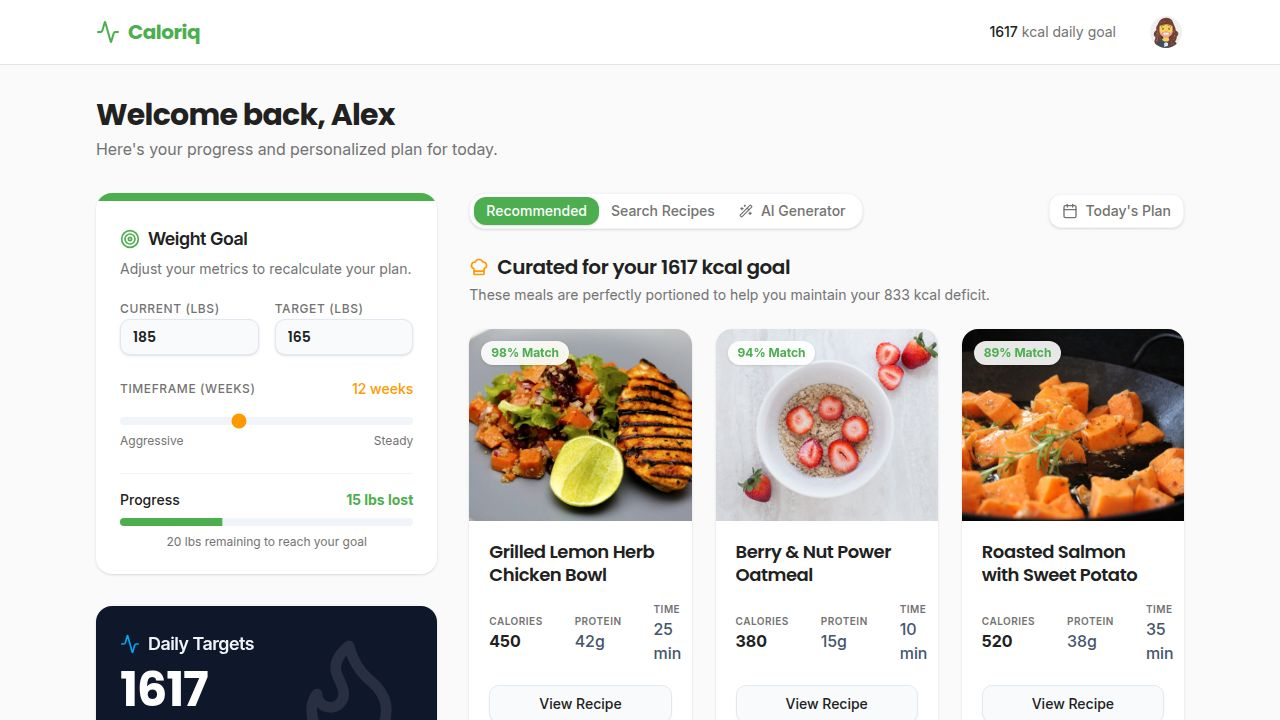
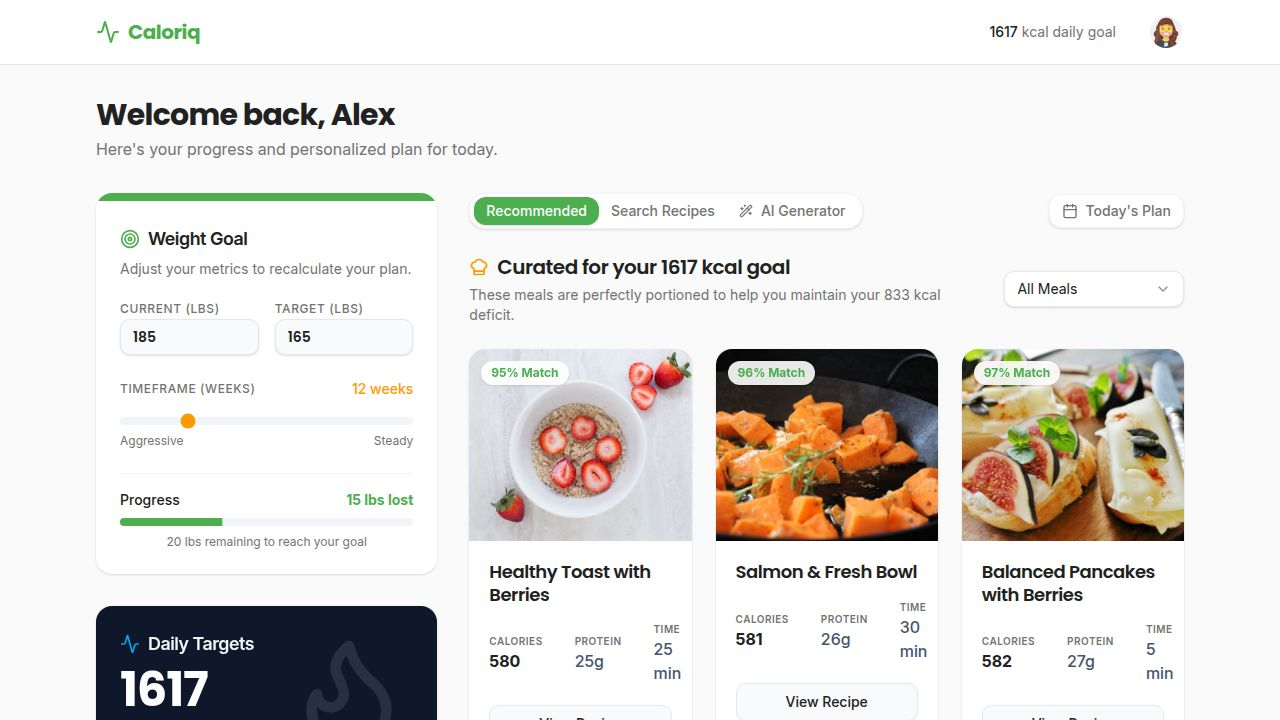
Provide 3 unique recipes daily for each meal category and cuisine type
Refactor the recipe generation logic to provide 3 unique recipes per category (Breakfast, Lunch, Dinner, Snack) for each cuisine type daily, utilizing a hashing mechanism to ensure daily changes and distinct recipe sets per cuisine.

Replit-Commit-Author: Agent
Replit-Commit-Session-Id: 3aa1bdb0-ad47-48c2-9052-1c8fe57e0854
Replit-Commit-Checkpoint-Type: full_checkpoint
Replit-Commit-Event-Id: e40263c6-9de4-46eb-bf71-cb61f2a046f9
Replit-Commit-Screenshot-Url: https://storage.googleapis.com/screenshot-production-us-central1/b5252e75-7d72-4a27-a063-837869a7ea78/3aa1bdb0-ad47-48c2-9052-1c8fe57e0854/ynjHtcF
Replit-Helium-Checkpoint-Created: true

diff --git a/client/src/pages/home.tsx b/client/src/pages/home.tsx
@@ -49,206 +49,112 @@ export default function Home() {
   
   const progressPercentage = 35; // mock progress
 
-  // Add cuisine property to recipes for filtering
-  const allRecipes = [
-    // Breakfast
-    {
-      id: 2,
-      title: "Berry & Nut Power Oatmeal",
-      type: "breakfast",
-      cuisine: "american",
-      calories: 380,
-      protein: "15g",
-      carbs: "52g",
-      fat: "12g",
-      time: "10 min",
-      image: recipe2,
-      match: "94% Match"
-    },
-    {
-      id: 6,
-      title: "Avocado Toast with Poached Egg",
-      type: "breakfast",
-      cuisine: "american",
-      calories: 420,
-      protein: "18g",
-      carbs: "35g",
-      fat: "22g",
-      time: "12 min",
-      image: recipe6,
-      match: "96% Match"
-    },
-    {
-      id: 7,
-      title: "Greek Yogurt Parfait",
-      type: "breakfast",
-      cuisine: "mediterranean",
-      calories: 310,
-      protein: "22g",
-      carbs: "38g",
-      fat: "8g",
-      time: "5 min",
-      image: recipe7,
-      match: "98% Match"
-    },
-    // Lunch
-    {
-      id: 1,
-      title: "Grilled Lemon Herb Chicken Bowl",
-      type: "lunch",
-      cuisine: "mediterranean",
-      calories: 450,
-      protein: "42g",
-      carbs: "35g",
-      fat: "14g",
-      time: "25 min",
-      image: recipe1,
-      match: "98% Match"
-    },
-    {
-      id: 8,
-      title: "Mediterranean Quinoa Salad",
-      type: "lunch",
-      cuisine: "mediterranean",
-      calories: 410,
-      protein: "16g",
-      carbs: "48g",
-      fat: "18g",
-      time: "15 min",
-      image: recipe8,
-      match: "95% Match"
-    },
-    {
-      id: 9,
-      title: "Turkey & Spinach Wrap",
-      type: "lunch",
-      cuisine: "american",
-      calories: 390,
-      protein: "32g",
-      carbs: "36g",
-      fat: "14g",
-      time: "10 min",
-      image: recipe9,
-      match: "92% Match"
-    },
-    // Dinner
-    {
-      id: 3,
-      title: "Roasted Salmon with Sweet Potato",
-      type: "dinner",
-      cuisine: "american",
-      calories: 520,
-      protein: "38g",
-      carbs: "40g",
-      fat: "22g",
-      time: "35 min",
-      image: recipe3,
-      match: "89% Match"
-    },
-    {
-      id: 5,
-      title: "Lean Steak and Asparagus",
-      type: "dinner",
-      cuisine: "american",
-      calories: 490,
-      protein: "45g",
-      carbs: "12g",
-      fat: "28g",
-      time: "20 min",
-      image: recipe5,
-      match: "92% Match"
-    },
-    {
-      id: 10,
-      title: "Baked Cod with Quinoa",
-      type: "dinner",
-      cuisine: "mediterranean",
-      calories: 440,
-      protein: "36g",
-      carbs: "42g",
-      fat: "12g",
-      time: "25 min",
-      image: recipe10,
-      match: "97% Match"
-    },
-    // Snacks
-    {
-      id: 4,
-      title: "Hummus and Carrot Sticks",
-      type: "snack",
-      cuisine: "mediterranean",
-      calories: 210,
-      protein: "8g",
-      carbs: "22g",
-      fat: "10g",
-      time: "5 min",
-      image: recipe4,
-      match: "99% Match"
-    },
-    {
-      id: 11,
-      title: "Apple Slices with Peanut Butter",
-      type: "snack",
-      cuisine: "american",
-      calories: 240,
-      protein: "7g",
-      carbs: "28g",
-      fat: "14g",
-      time: "5 min",
-      image: recipe11,
-      match: "94% Match"
-    },
-    {
-      id: 12,
-      title: "Mixed Nuts Bowl",
-      type: "snack",
-      cuisine: "vegetarian",
-      calories: 280,
-      protein: "9g",
-      carbs: "12g",
-      fat: "24g",
-      time: "2 min",
-      image: recipe12,
-      match: "91% Match"
-    }
-  ];
+  const getDailyRecipes = () => {
+    const dayOfWeek = new Date().getDay(); // 0 to 6
+    const cuisines = ["all", "vegetarian", "italian", "mediterranean", "asian", "mexican", "american"];
+    const categories = ["breakfast", "lunch", "dinner", "snack"];
+    const images = [recipe1, recipe2, recipe3, recipe4, recipe5, recipe6, recipe7, recipe8, recipe9, recipe10, recipe11, recipe12];
+    
+    const cuisineKeywords: Record<string, string[]> = {
+      italian: ["Tuscan", "Garlic", "Basil", "Tomato", "Parmesan", "Herb", "Roasted", "Rustic"],
+      asian: ["Ginger", "Soy", "Teriyaki", "Sesame", "Spicy", "Miso", "Sriracha", "Glazed"],
+      mexican: ["Spicy", "Avocado", "Cilantro", "Jalapeno", "Salsa", "Chipotle", "Lime", "Baja"],
+      vegetarian: ["Plant-based", "Green", "Roasted", "Fresh", "Harvest", "Wholesome", "Garden", "Nutrient"],
+      mediterranean: ["Olive", "Feta", "Lemon", "Herb", "Greek", "Zesty", "Sun-dried", "Aegean"],
+      american: ["Classic", "BBQ", "Grilled", "Homestyle", "Smoked", "Maple", "Hearty", "Savory"],
+      all: ["Healthy", "Fresh", "Balanced", "Nourishing", "Lean", "Power", "Protein", "Vitality"]
+    };
+
+    const mealNouns: Record<string, string[]> = {
+      breakfast: ["Oatmeal", "Scramble", "Toast", "Bowl", "Pancakes", "Parfait", "Smoothie", "Muffins"],
+      lunch: ["Wrap", "Salad", "Bowl", "Sandwich", "Bento", "Plate", "Pita", "Melt"],
+      dinner: ["Skillet", "Roast", "Bake", "Stir-fry", "Grill", "Stew", "Casserole", "Platter"],
+      snack: ["Bites", "Sticks", "Mix", "Dip", "Chips", "Crunch", "Bite", "Energy"]
+    };
+
+    const proteins = ["Chicken", "Tofu", "Salmon", "Turkey", "Beef", "Chickpeas", "Egg", "Tempeh", "Black Beans", "Lentils"];
+    
+    const generatedRecipes = [];
+    let idCounter = 1;
+
+    cuisines.forEach((c) => {
+      const keywords = cuisineKeywords[c] || cuisineKeywords.all;
+      categories.forEach((cat) => {
+        const nouns = mealNouns[cat];
+        
+        for (let i = 0; i < 3; i++) {
+          // Create a deterministic seed based on day, cuisine, category, and index
+          // We mix the string hash of cuisine + category so the sequences don't just shift
+          let strHash = 0;
+          const comboStr = c + cat;
+          for(let k=0; k<comboStr.length; k++) {
+            strHash = ((strHash << 5) - strHash) + comboStr.charCodeAt(k);
+            strHash |= 0;
+          }
+          
+          const seed = Math.abs(dayOfWeek * 10000 + strHash * 10 + i);
+          
+          const keyword = keywords[seed % keywords.length];
+          const protein = proteins[(seed * 3) % proteins.length];
+          const noun = nouns[(seed * 5) % nouns.length];
+          
+          let title = `${keyword} ${protein} ${noun}`;
+          if (cat === 'snack') {
+            title = seed % 2 === 0 ? `${keyword} Energy ${noun}` : `${keyword} Hummus & ${noun}`;
+          } else if (cat === 'breakfast') {
+            title = seed % 2 === 0 ? `${keyword} ${noun} with Berries` : `${protein} & ${keyword} ${noun}`;
+          }
+
+          // Distribute images nicely
+          let imgOffset = 0;
+          if (cat === 'breakfast') imgOffset = 1; // starts at recipe2
+          if (cat === 'dinner') imgOffset = 4;
+          if (cat === 'snack') imgOffset = 10;
+          
+          const imgIdx = (imgOffset + (seed % 5)) % images.length;
+          
+          generatedRecipes.push({
+            id: idCounter++,
+            title,
+            type: cat,
+            cuisine: c,
+            calories: 200 + ((seed * 7) % 300) + (cat === 'snack' ? -100 : 100),
+            protein: `${10 + ((seed * 11) % 35)}g`,
+            carbs: `${20 + ((seed * 13) % 40)}g`,
+            fat: `${5 + ((seed * 17) % 20)}g`,
+            time: `${5 + ((seed * 19) % 6) * 5} min`,
+            image: images[imgIdx],
+            match: `${85 + ((seed * 23) % 15)}% Match`
+          });
+        }
+      });
+    });
+
+    return generatedRecipes;
+  };
+
+  const allRecipes = getDailyRecipes();
 
   const handleSearch = (cuisineType = selectedCuisine, query = searchQuery) => {
     let filtered = [...allRecipes];
     
-    // Shuffle array for visual variety when showing "all"
-    if (cuisineType === "all" && !query) {
-      filtered = filtered.sort(() => 0.5 - Math.random());
+    // Handle "all" cuisine logic
+    if (cuisineType === "all" || cuisineType === "placeholder") {
+      filtered = filtered.filter(r => r.cuisine === "all");
     } else {
-      if (cuisineType !== "all") {
-        filtered = filtered.filter(r => r.cuisine === cuisineType || cuisineType === "placeholder");
-      }
-      
-      if (query.trim()) {
-        const lowerQuery = query.toLowerCase();
-        filtered = filtered.filter(r => 
-          r.title.toLowerCase().includes(lowerQuery) || 
-          r.cuisine.toLowerCase().includes(lowerQuery)
-        );
-      }
+      filtered = filtered.filter(r => r.cuisine === cuisineType);
     }
     
-    // If not enough results for a specific cuisine, duplicate them to show a full grid of 6
-    if (filtered.length > 0 && filtered.length < 6) {
-      const originalFiltered = [...filtered];
-      while (filtered.length < 6) {
-        // Add variations to make them look distinct
-        const sourceItem = originalFiltered[filtered.length % originalFiltered.length];
-        filtered.push({
-          ...sourceItem,
-          id: sourceItem.id + 100 + filtered.length, // Ensure unique ID
-        });
-      }
-    } else if (filtered.length === 0) {
-      // Fallback if no results match
-      filtered = allRecipes.slice(0, 6);
+    // Text search logic
+    if (query.trim()) {
+      const lowerQuery = query.toLowerCase();
+      filtered = filtered.filter(r => 
+        r.title.toLowerCase().includes(lowerQuery) || 
+        r.cuisine.toLowerCase().includes(lowerQuery)
+      );
     }
     
+    // Make sure we limit to 6 distinct recipes for the search tab
     setSearchResults(filtered.slice(0, 6));
     setHasSearched(true);
   };
@@ -268,7 +174,8 @@ export default function Home() {
     }
   };
 
-  const recipes = mealType === "all" ? allRecipes : allRecipes.filter(r => r.type === mealType);
+  const dailyPlanRecipes = allRecipes.filter(r => r.cuisine === 'all');
+  const recipes = mealType === "all" ? dailyPlanRecipes : dailyPlanRecipes.filter(r => r.type === mealType);
 
   return (
     <div className="min-h-screen bg-background">
